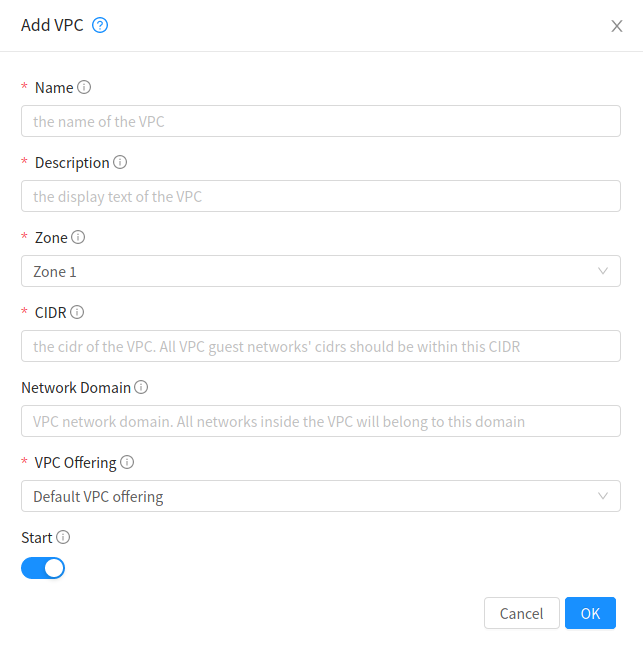
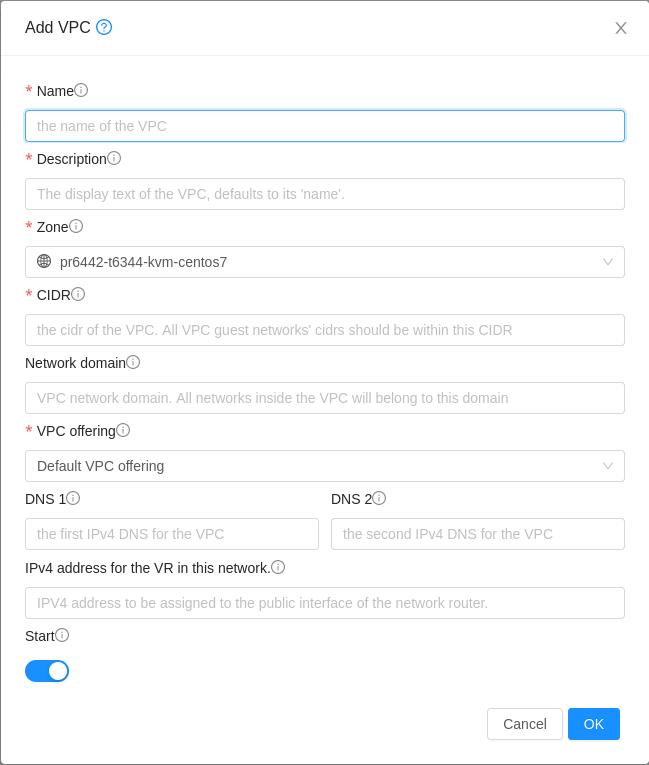
describe source NAT fields

diff --git a/source/adminguide/networking/advanced_zone_config.rst b/source/adminguide/networking/advanced_zone_config.rst
@@ -68,6 +68,8 @@ configure the base guest network:
 
    -  **IPv6 DNS**: A set of custom IPv6 DNS that will be used by the guest network. If not provided then IPv6 DNS specified for the zone will be used. Available only when the selected network offering is IPv6 enabled and supports DNS service.
 
+   -  **IPv4 address for the VR in this Network**: The source nat address or primary public network address to use by the guest network. If not provided then a random address from the available pool of addresses wil be used.
+
    -  **Network Domain**: A custom DNS suffix at the level of a network. If you
       want to assign a special domain name to the guest VM network, specify a
       DNS suffix.

diff --git a/source/adminguide/networking/virtual_private_cloud_config.rst b/source/adminguide/networking/virtual_private_cloud_config.rst
@@ -214,6 +214,7 @@ addresses in the form of a Classless Inter-Domain Routing (CIDR) block.
 
    -  **IPv6 DNS**: A set of custom IPv6 DNS that will be used by this VPC. If not provided then IPv6 DNS specified for the zone will be used. Available only when the selected VPC offering is IPv6 enabled and supports DNS service.
 
+   -  **IPv4 address for the VR in this Network**: The source nat address or primary public network address to use by the guest network. If not provided then a random address from the available pool of addresses wil be used.
 
    - **Public MTU**: The MTU to be configured on the public interfaces of the 
       VPC network's VR
